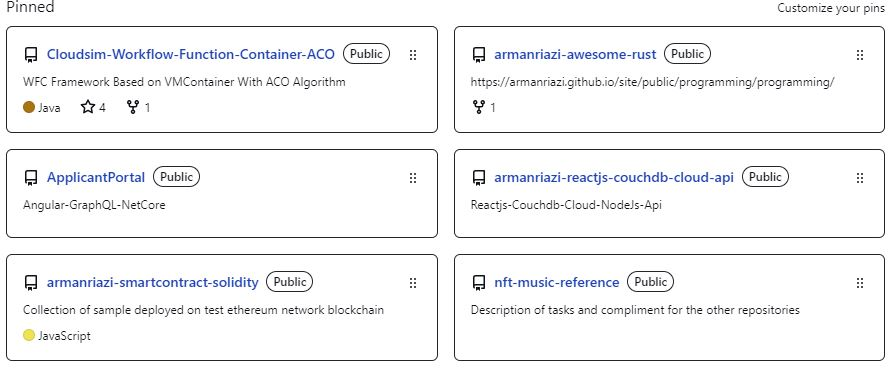
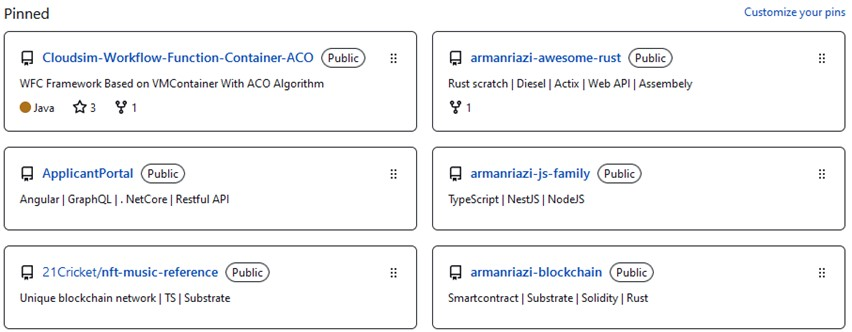
change pic

Changed region(s): [[0.0, 0.0, 1.0, 0.994]]

diff --git a/README.md b/README.md
@@ -24,7 +24,7 @@ src="https://media-exp1.licdn.com/dms/image/D4E35AQE8M7sYVqTHWA/profile-framedph
 - **Activities of the account were hidden but you can gain access to the pinned repositories**
   
 <p align="center">
-<a href="#" target="_blank" rel="noreferrer"><img src="https://github.com/armanriazi/armanriazi/blob/main/gitpinned.JPG" alt="Pinned" /></a>
+<a href="#" target="_blank" rel="noreferrer"><img src="https://github.com/armanriazi/armanriazi/blob/main/pinned.jpg" alt="Pinned" /></a>
 </p>
 
 ### Skills
